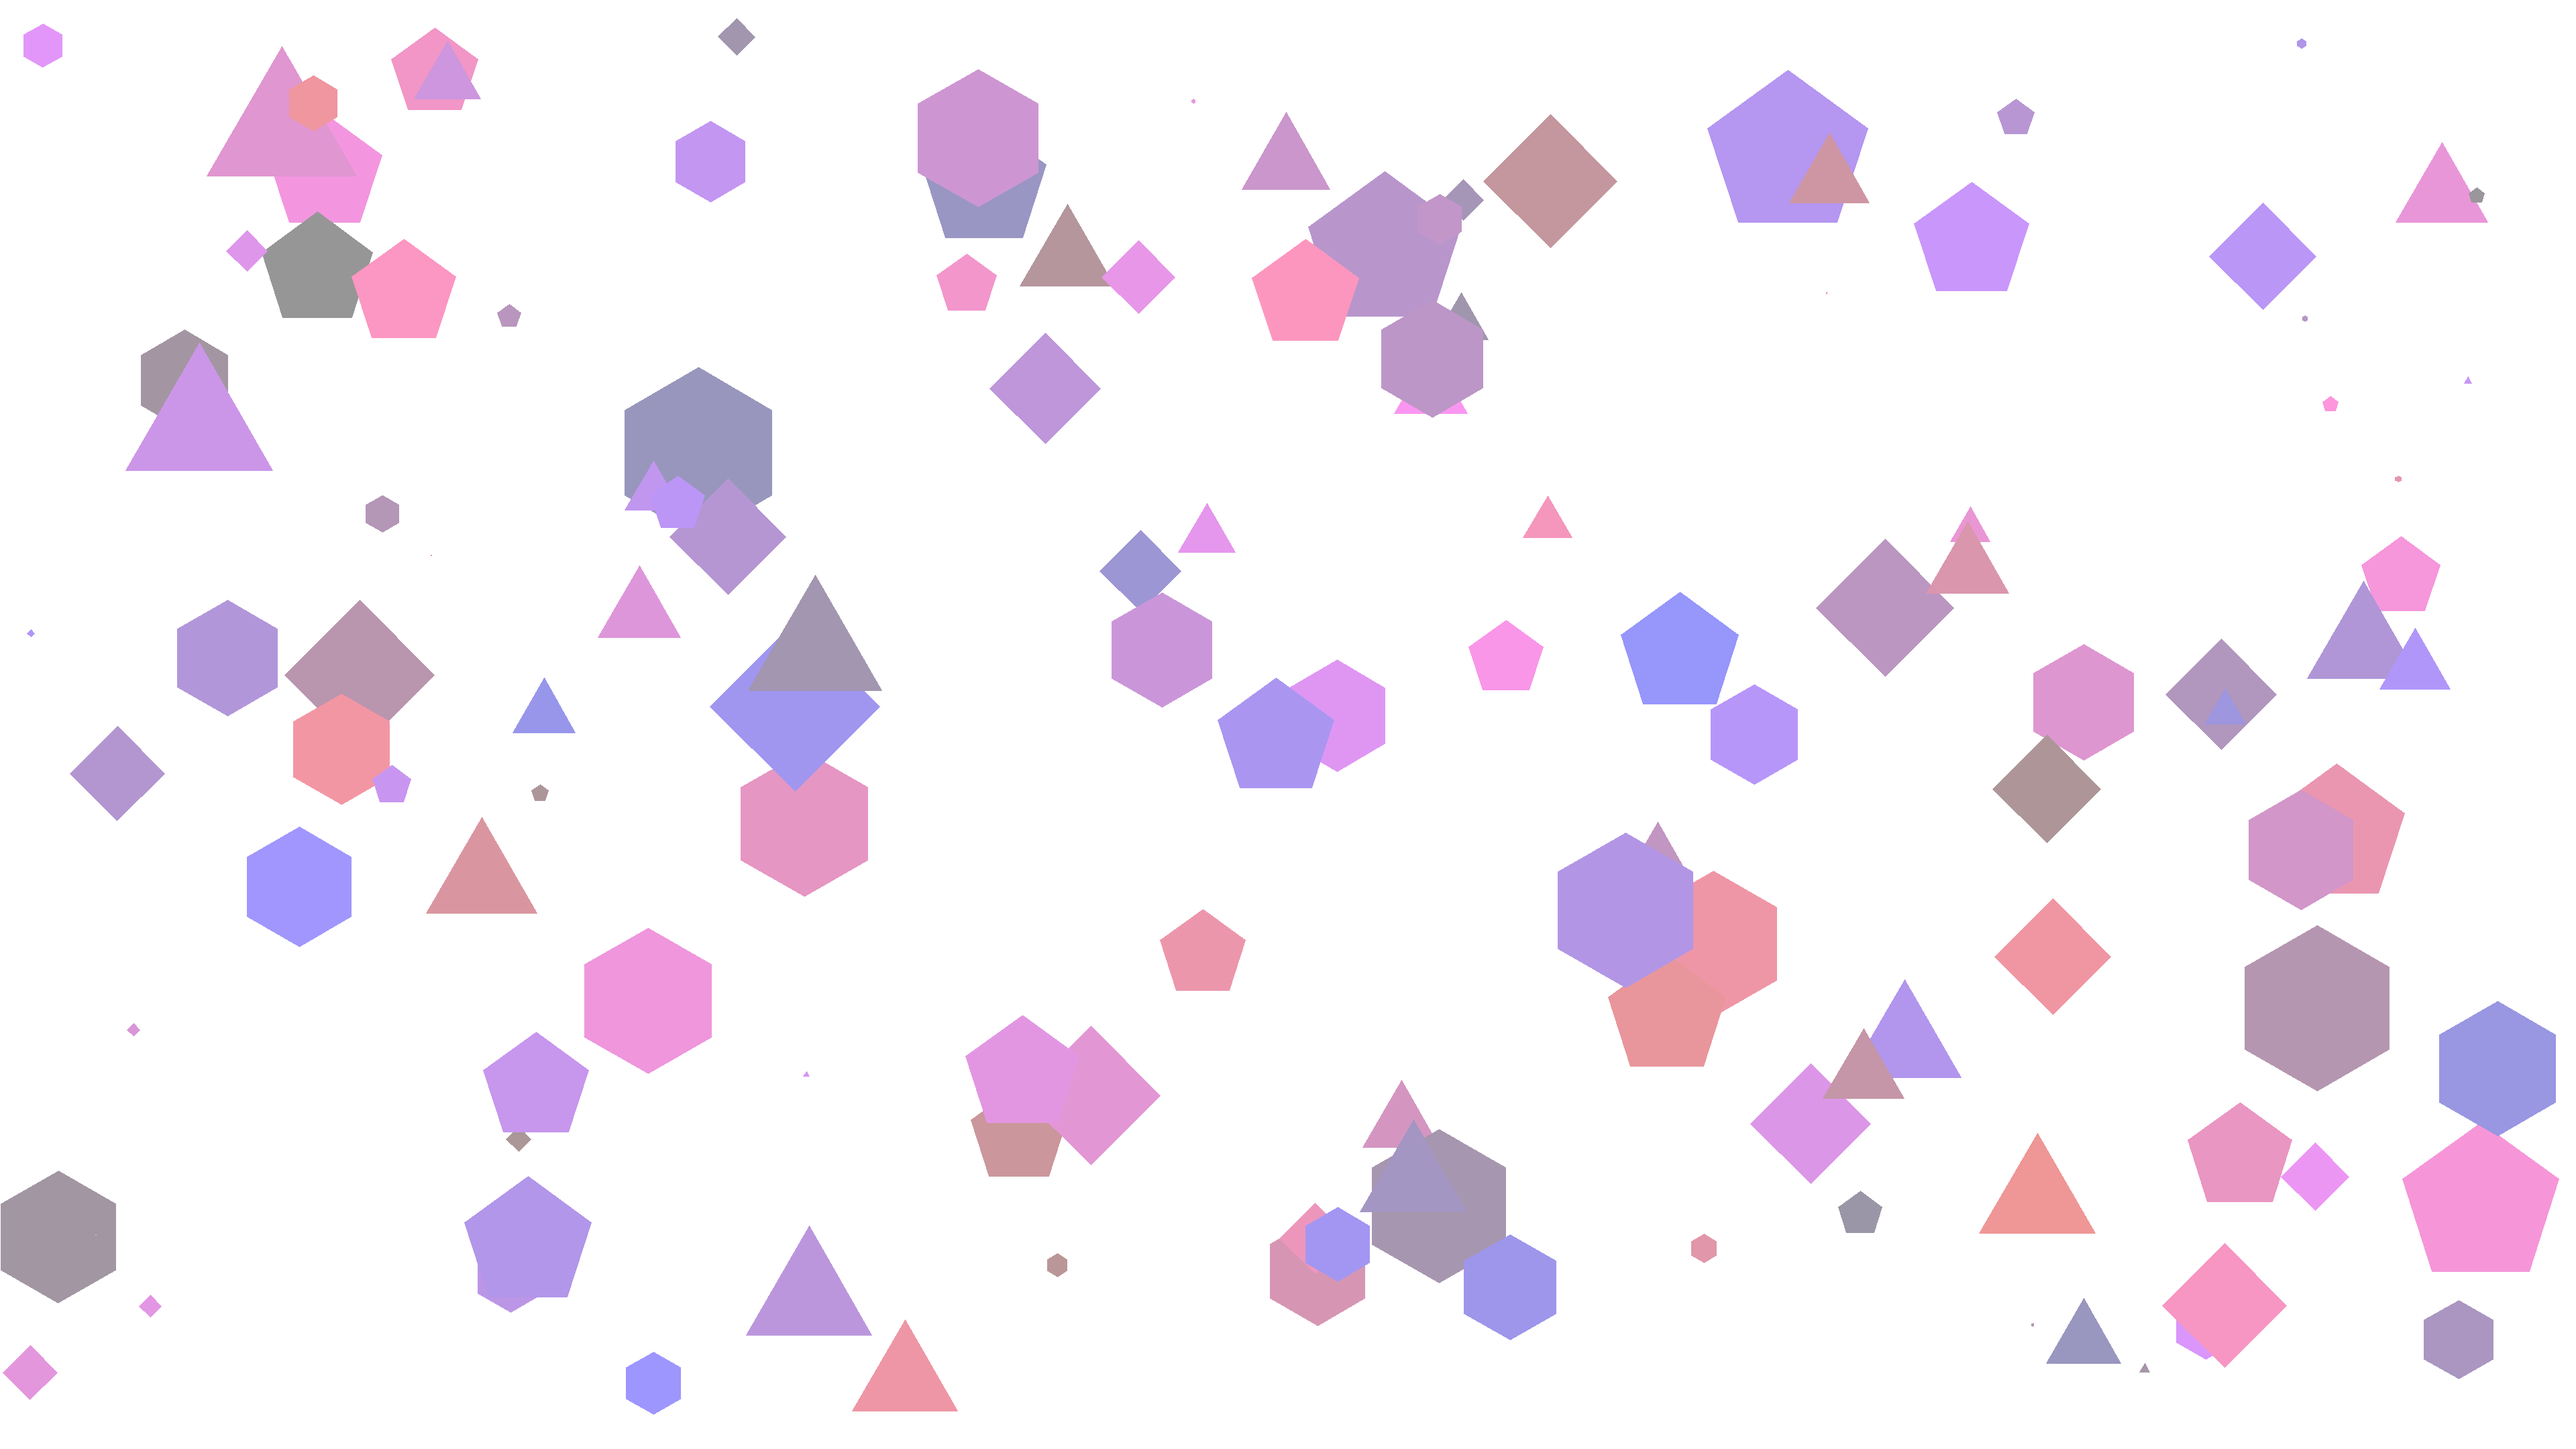
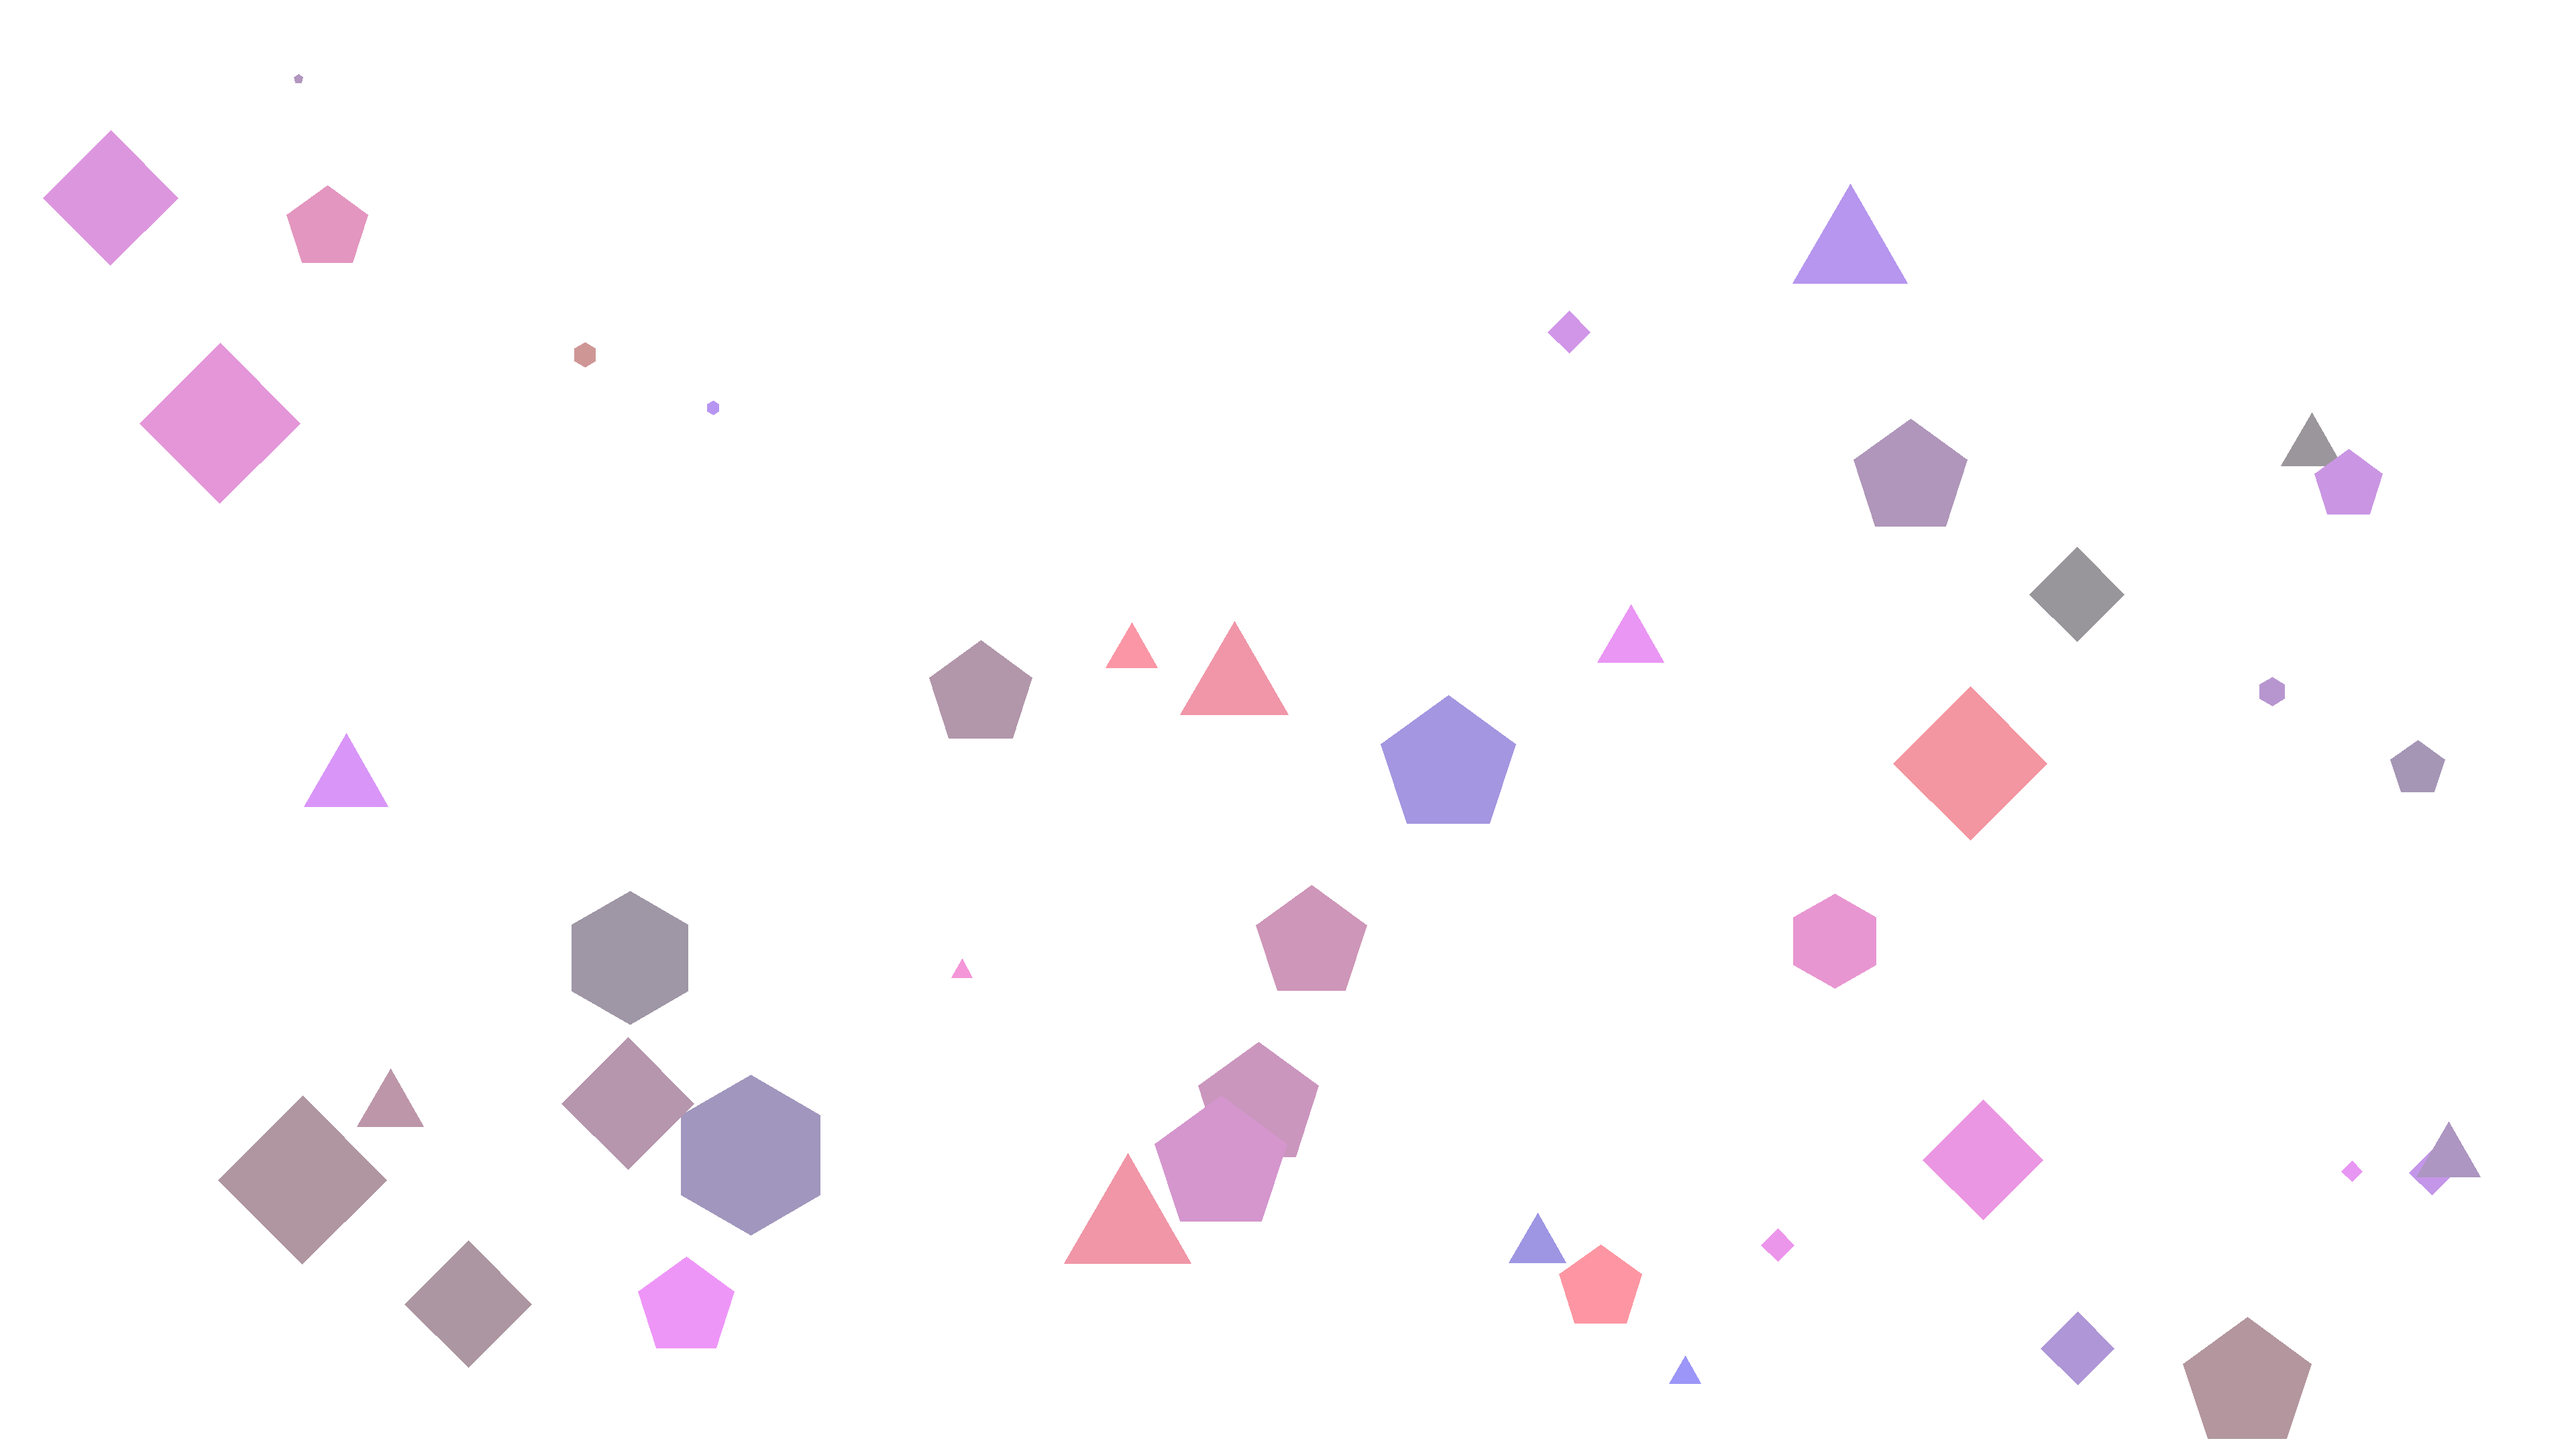
less shapes

diff --git a/assets/images/generaterandomshapes.py b/assets/images/generaterandomshapes.py
@@ -3,13 +3,14 @@ import math
 import random
 size = (1920*2,1080*2)
 scale = 3
+shapes = 50
 pointrange = (3,6)
 rotationrange = (180,180)
 im = Image.new('RGBA', size)
 
 draw = ImageDraw.Draw(im)
 
-for x in range(150):
+for x in range(shapes):
     color = (random.randint(150,255),random.randint(150,150),random.randint(150,255))
     center= (random.randint(1,size[0]),random.randint(1,size[1]))
     angle = random.randint(rotationrange[0],rotationrange[1])
